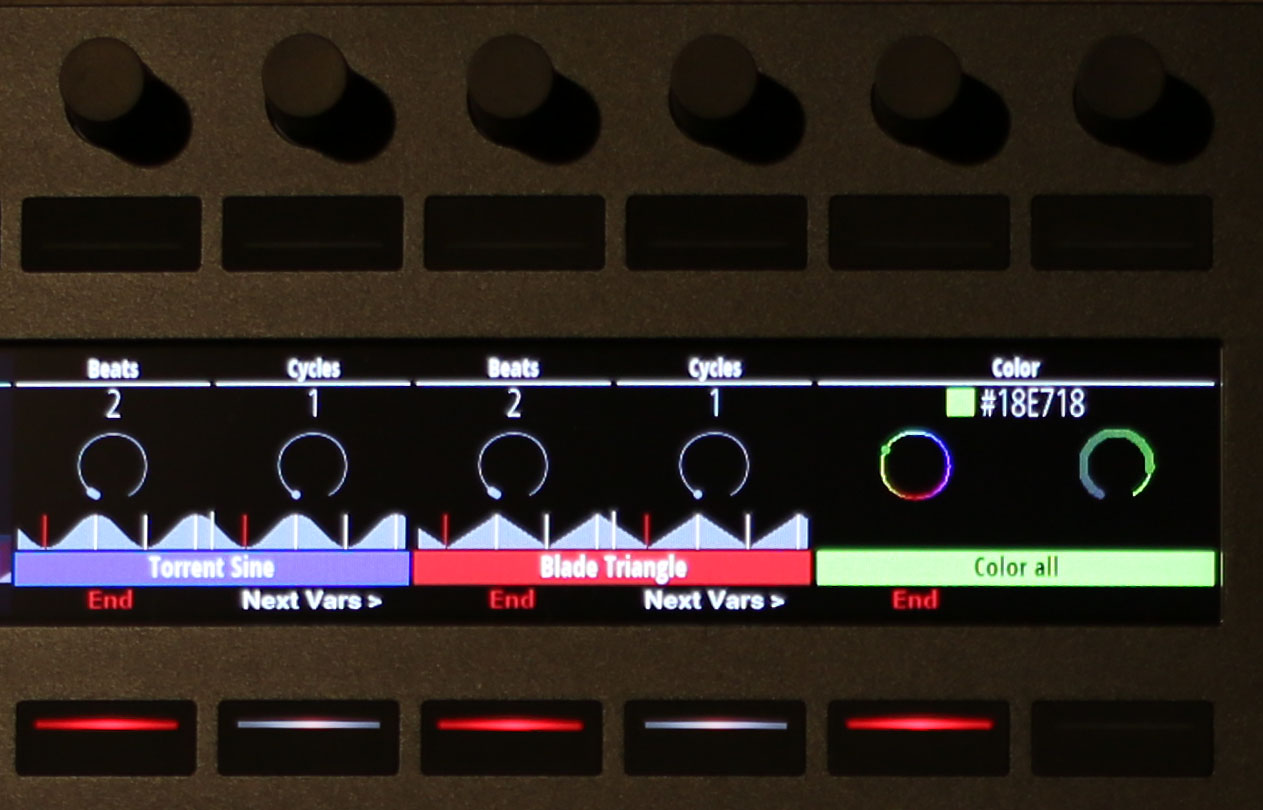
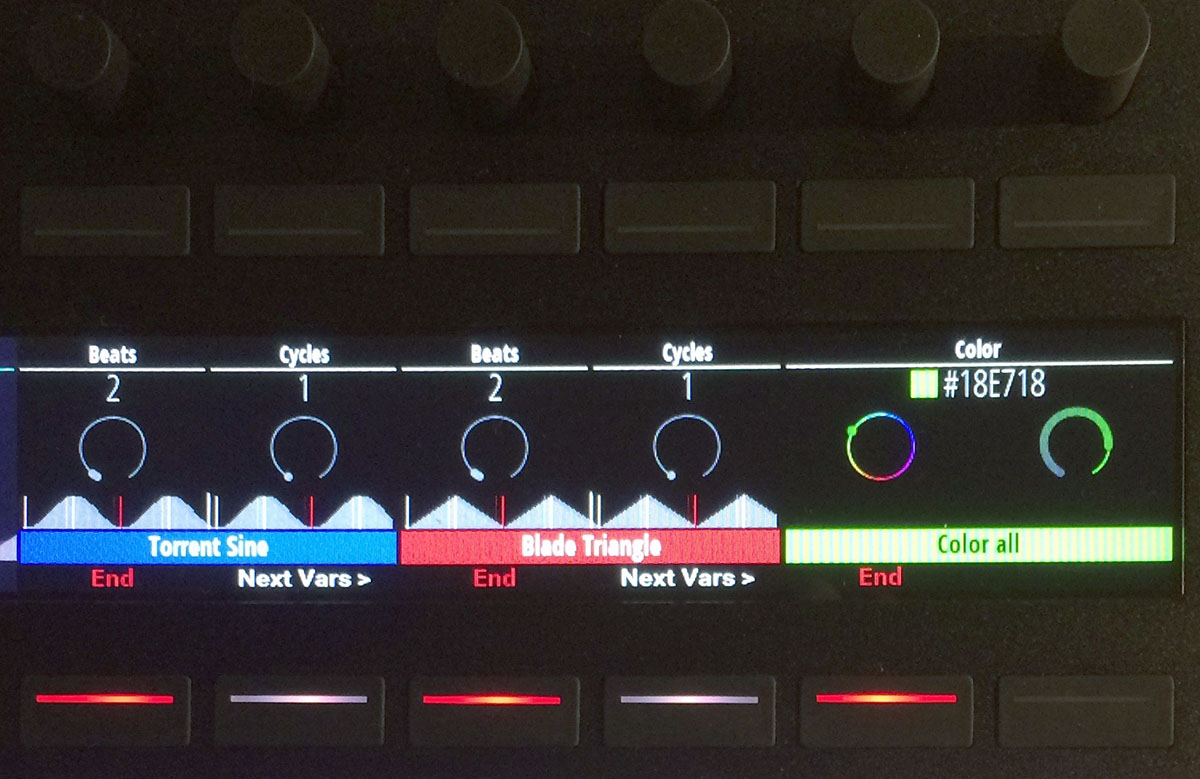
Update some color gauge shots.

diff --git a/CHANGELOG.md b/CHANGELOG.md
@@ -12,6 +12,13 @@ This change log follows the conventions of
   family of controllers now moves you as far as possible in that
   direction, as it did on the Push 2.
 
+### Changed
+
+- The hue and saturation gauges on the Push 2 are now drawn using a
+  masking image so they can be anti-aliased to the same outline shape
+  as the other gauges, and look much cleaner.
+
+
 ## [0.2.1] - 2016-04-03
 
 ### Added
